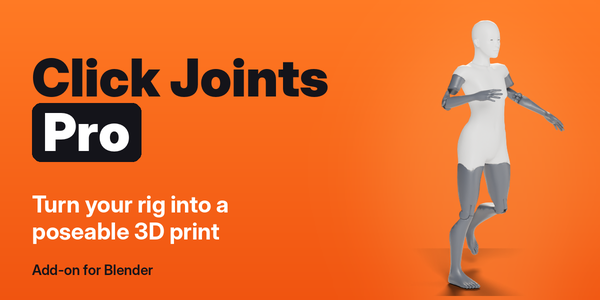
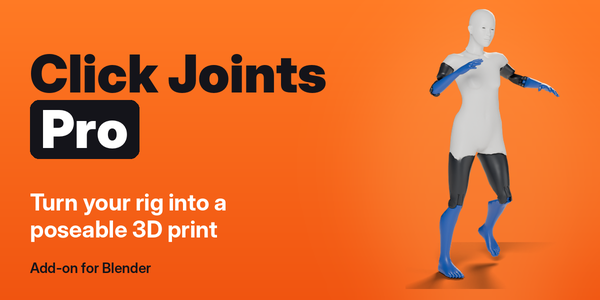
Bram: hoofdbeeld Pro versie 2 (groter, drie kleuren) plus Gumroad-maten 1005x565 en 600x600, keuring bij Daan
Claude-Session: https://claude.ai/code/session_01RMWUygMG8XgqnqxDT2udex

diff --git a/platformen/blender/superhive/hoofdbeeld/maak_hoofdbeeld.py b/platformen/blender/superhive/hoofdbeeld/maak_hoofdbeeld.py
@@ -1,5 +1,9 @@
-"""Zet de Blender-render (render_hoofdbeeld.py) op een oranje vlak met naam en één belofte, 1200 x 600.
-Ook een proefblad op 600 x 300. Letter: Inter Display (OFL), uit het systeem.
+"""Zet de Blender-render (render_hoofdbeeld.py) op een oranje vlak met naam en één belofte, in drie maten:
+- 0-hoofdbeeld-pro.png        1200 x 600  (Superhive, uitgelicht beeld)
+- 0-hoofdbeeld-pro-1005.png   1005 x 565  (Gumroad, omslag op de productpagina)
+- 0-hoofdbeeld-pro-vierkant.png 600 x 600 (Gumroad, zoeken, Discover en profiel)
+Plus proefbladen op kleine maat en naast elkaar, om in de rijtjes te keuren.
+Letter: Inter Display (OFL), uit het systeem.
     python3 maak_hoofdbeeld.py <fig.png> <uitmap>
 """
 import os
@@ -8,53 +12,85 @@ import sys
 from PIL import Image, ImageDraw, ImageFilter, ImageFont
 
 fig_pad, uitmap = sys.argv[1], sys.argv[2]
-W, H = 1200, 600
 F = "/usr/share/fonts/opentype/inter/"
 ORANJE_BOVEN, ORANJE_ONDER = (255, 122, 36), (240, 84, 16)
 INKT = (20, 20, 26)
+WIT = (255, 255, 255)
 
-# Achtergrond: oranje met een zachte verloop van boven naar onder
-bg = Image.new("RGB", (W, H))
-d = ImageDraw.Draw(bg)
-for y in range(H):
-    t = y / (H - 1)
-    d.line([(0, y), (W, y)], fill=tuple(round(a + (b - a) * t) for a, b in zip(ORANJE_BOVEN, ORANJE_ONDER)))
-# Licht vlak achter de figuur, zodat hij loskomt
-gloed = Image.new("L", (W, H), 0)
-ImageDraw.Draw(gloed).ellipse([760, 40, 1180, 640], fill=90)
-gloed = gloed.filter(ImageFilter.GaussianBlur(70))
-bg = Image.composite(Image.new("RGB", (W, H), (255, 170, 90)), bg, gloed)
+FIG = Image.open(fig_pad).convert("RGBA")
+# Bijsnijden op duidelijke dekking: de schaduwvanger laat ver weg een vage waas achter die anders meetelt.
+FIG = FIG.crop(FIG.getchannel("A").point(lambda a: 255 if a > 24 else 0).getbbox())
 
-# Figuur: doorzichtige randen eraf, schalen op 600 hoog (voeten net boven de rand)
-fig = Image.open(fig_pad).convert("RGBA")
-fig = fig.crop(fig.getbbox())
-schaal = 585 / fig.height
-fig = fig.resize((round(fig.width * schaal), round(fig.height * schaal)), Image.LANCZOS)
-x = 975 - fig.width // 2
-bg = bg.convert("RGBA")
-bg.alpha_composite(fig, (x, H - fig.height - 8))
 
-d = ImageDraw.Draw(bg)
-links = 64
-f_naam = ImageFont.truetype(F + "InterDisplay-Black.otf", 104)
-f_pro = ImageFont.truetype(F + "InterDisplay-Black.otf", 104)
-f_belofte = ImageFont.truetype(F + "InterDisplay-Bold.otf", 46)
-f_klein = ImageFont.truetype(F + "InterDisplay-SemiBold.otf", 28)
+def vlak(W, H, gloed_box):
+    bg = Image.new("RGB", (W, H))
+    d = ImageDraw.Draw(bg)
+    for y in range(H):
+        t = y / (H - 1)
+        d.line([(0, y), (W, y)], fill=tuple(round(a + (b - a) * t) for a, b in zip(ORANJE_BOVEN, ORANJE_ONDER)))
+    gloed = Image.new("L", (W, H), 0)
+    ImageDraw.Draw(gloed).ellipse(gloed_box, fill=90)
+    gloed = gloed.filter(ImageFilter.GaussianBlur(H // 9))
+    return Image.composite(Image.new("RGB", (W, H), (255, 170, 90)), bg, gloed).convert("RGBA")
 
-d.text((links, 92), "Click Joints", font=f_naam, fill=INKT)
-# "PRO" als wit blok, zodat het in de kleine weergave ook leesbaar is
-y_pro = 206
-pro_b = d.textbbox((0, 0), "Pro", font=f_pro)
-bw, bh = pro_b[2] - pro_b[0], pro_b[3] - pro_b[1]
-d.rounded_rectangle([links, y_pro, links + bw + 44, y_pro + bh + 40], radius=18, fill=INKT)
-d.text((links + 22 - pro_b[0], y_pro + 20 - pro_b[1]), "Pro", font=f_pro, fill=(255, 255, 255))
 
-d.text((links, 380), "Turn your rig into a", font=f_belofte, fill=(255, 255, 255))
-d.text((links, 434), "poseable 3D print", font=f_belofte, fill=(255, 255, 255))
-d.text((links, 522), "Add-on for Blender", font=f_klein, fill=INKT)
+def zet_figuur(bg, hoogte, midden_x, onder):
+    """Figuur op hoogte px, voeten `onder` px boven de onderrand (Daan kan 2)."""
+    s = hoogte / FIG.height
+    f = FIG.resize((round(FIG.width * s), hoogte), Image.LANCZOS)
+    bg.alpha_composite(f, (round(midden_x - f.width / 2), bg.height - hoogte - onder))
+    return f.width
+
+
+def pro_blok(d, x, y, grootte):
+    f = ImageFont.truetype(F + "InterDisplay-Black.otf", grootte)
+    b = d.textbbox((0, 0), "Pro", font=f)
+    bw, bh = b[2] - b[0], b[3] - b[1]
+    pad_x, pad_y = round(grootte * 0.21), round(grootte * 0.19)
+    d.rounded_rectangle([x, y, x + bw + 2 * pad_x, y + bh + 2 * pad_y], radius=round(grootte * 0.17), fill=INKT)
+    d.text((x + pad_x - b[0], y + pad_y - b[1]), "Pro", font=f, fill=WIT)
+
+
+def breed(W, H):
+    """Liggend (1200 x 600 en 1005 x 565): tekst links, figuur rechts zo groot als past."""
+    s = H / 600
+    bg = vlak(W, H, [W - round(470 * s), round(20 * s), W - round(10 * s), H + round(40 * s)])
+    breedte = zet_figuur(bg, round(560 * s), W - round(235 * s), round(22 * s))
+    d = ImageDraw.Draw(bg)
+    x = round(60 * s)
+    d.text((x, round(84 * s)), "Click Joints", font=ImageFont.truetype(F + "InterDisplay-Black.otf", round(104 * s)), fill=INKT)
+    pro_blok(d, x, round(200 * s), round(104 * s))
+    f_b = ImageFont.truetype(F + "InterDisplay-Bold.otf", round(46 * s))
+    d.text((x, round(376 * s)), "Turn your rig into a", font=f_b, fill=WIT)
+    d.text((x, round(430 * s)), "poseable 3D print", font=f_b, fill=WIT)
+    d.text((x, round(518 * s)), "Add-on for Blender", font=ImageFont.truetype(F + "InterDisplay-SemiBold.otf", round(28 * s)), fill=INKT)
+    return bg.convert("RGB"), breedte
+
+
+def vierkant(W=600):
+    """Vierkant (600 x 600): naam in drie regels links boven, figuur rechts over bijna de hele hoogte."""
+    H = W
+    bg = vlak(W, H, [round(W * 0.42), round(H * 0.02), W + round(W * 0.1), H + round(H * 0.08)])
+    breedte = zet_figuur(bg, round(H * 0.93), round(W * 0.71), round(H * 0.03))
+    d = ImageDraw.Draw(bg)
+    x = round(W * 0.06)
+    f_n = ImageFont.truetype(F + "InterDisplay-Black.otf", round(W * 0.135))
+    d.text((x, round(H * 0.07)), "Click", font=f_n, fill=INKT)
+    d.text((x, round(H * 0.215)), "Joints", font=f_n, fill=INKT)
+    pro_blok(d, x, round(H * 0.385), round(W * 0.135))
+    f_b = ImageFont.truetype(F + "InterDisplay-Bold.otf", round(W * 0.052))
+    for i, regel in enumerate(("Turn your rig", "into a poseable", "3D print")):
+        d.text((x, round(H * (0.66 + i * 0.068))), regel, font=f_b, fill=WIT)
+    return bg.convert("RGB"), breedte
+
 
 os.makedirs(uitmap, exist_ok=True)
-groot = bg.convert("RGB")
-groot.save(os.path.join(uitmap, "0-hoofdbeeld-pro.png"), optimize=True)
+for naam, (beeld, bw) in {
+    "0-hoofdbeeld-pro.png": breed(1200, 600),
+    "0-hoofdbeeld-pro-1005.png": breed(1005, 565),
+    "0-hoofdbeeld-pro-vierkant.png": vierkant(600),
+}.items():
+    beeld.save(os.path.join(uitmap, naam), optimize=True)
+    print(f"{naam}: {beeld.size}, figuur {bw} px breed ({100 * bw / beeld.width:.0f}% van de breedte)")
+groot = Image.open(os.path.join(uitmap, "0-hoofdbeeld-pro.png"))
 groot.resize((600, 300), Image.LANCZOS).save(os.path.join(uitmap, "0-hoofdbeeld-pro-600.png"), optimize=True)
-print("klaar", groot.size)

diff --git a/platformen/blender/superhive/hoofdbeeld/render_hoofdbeeld.py b/platformen/blender/superhive/hoofdbeeld/render_hoofdbeeld.py
@@ -1,4 +1,4 @@
-"""Hoofdbeeld Click Joints Pro voor Superhive (Bram, 21 nov 2026, opdracht hoofdchat 06:45 NL).
+"""Hoofdbeeld Click Joints Pro voor Superhive en Gumroad (Bram, 21 nov 2026, opdrachten hoofdchat 06:45 en 08:50 NL).
 
 Rendert de echte delen die Pro 1.1 maakt na "Figure from rig" op de mensfiguur van de CI-toets
 (e2e/toetsen_mens.py: MakeHuman base.obj CC0, 220 mm, 9 gewrichten, 10 delen). Niets nagetekend: het script
@@ -23,27 +23,51 @@ delen = [o for o in sc.objects if o.type == "MESH"]
 print("[hb] delen:", len(delen))
 
 
-def draai(ob, graden, doel_kant):
-    """Draai deel B om zijn scharnieras; kies het teken waarbij het verste punt naar doel_kant gaat."""
-    p = Vector(ob["cj_scharnier_punt"])
-    a = Vector(ob["cj_scharnier_as"]).normalized()
-    ver = max((ob.matrix_world @ v.co for v in ob.data.vertices), key=lambda q: (q - p).length)
+def draai_om(obs, p, a, graden, doel_kant, wie):
+    """Draai hele delen om punt p en as a; kies het teken waarbij het verste punt naar doel_kant gaat."""
+    p, a = Vector(p), Vector(a).normalized()
+    ver = max((obs[0].matrix_world @ v.co for v in obs[0].data.vertices), key=lambda q: (q - p).length)
     beste = None
     for teken in (1, -1):
         m = Matrix.Translation(p) @ Matrix.Rotation(math.radians(teken * graden), 4, a) @ Matrix.Translation(-p)
         score = ((m @ ver) - ver).dot(Vector(doel_kant))
         if beste is None or score > beste[0]:
             beste = (score, m)
-    ob.matrix_world = beste[1] @ ob.matrix_world
-    print(f"[hb] {ob['cj_naam']}: {graden} graden (bereik {ob['cj_bereik_graden']})")
+    for ob in obs:
+        ob.matrix_world = beste[1] @ ob.matrix_world
+    print(f"[hb] {wie}: {graden} graden")
 
 
-naam = {o.get("cj_naam"): o for o in delen if o.get("cj_soort") == "SCHARNIER"}
-# Linkerknie 55 graden naar achter (voet naar +Y), rechterelleboog 70 graden naar voor en omhoog.
-draai(naam["Left knee"], 55, (0, 1, 0.4))
-draai(naam["Right elbow"], 70, (0, -1, 1))
+def deel(n):
+    return next(o for o in delen if o.get("cj_naam") == n and o.get("cj_deel") == "B")
 
-# Kleuren als twee rollen filament: romp en hoofd licht, ledematen donker, zodat elke naad te zien is.
+
+def scharnier(n, graden, doel_kant, ook=()):
+    """Scharnier: om de eigen as uit de add-on (cj_scharnier_punt, cj_scharnier_as), binnen cj_bereik_graden."""
+    ob = deel(n)
+    assert graden <= ob["cj_bereik_graden"], n
+    draai_om([ob, *ook], ob["cj_scharnier_punt"], ob["cj_scharnier_as"], graden, doel_kant, f"{n} (bereik {ob['cj_bereik_graden']})")
+
+
+def kogel(n, graden, as_, doel_kant, ook=()):
+    """Kogel: om het kogelcentrum (cj_centrum), binnen cj_grens_graden."""
+    ob = deel(n)
+    assert graden <= ob["cj_grens_graden"], n
+    draai_om([ob, *ook], ob["cj_centrum"], as_, graden, doel_kant, f"{n} (grens {ob['cj_grens_graden']})")
+
+
+# Houding (21 nov, tweede versie): eerst de ellebogen en knieën, dan de kogels die het hele lid meenemen.
+# Alles binnen het bereik dat Pro meldt: ellebogen 0-140, knieën 0-120, schouders en nek 20, heupen 25.
+scharnier("Right elbow", 80, (0, -1, 1))
+scharnier("Left elbow", 40, (0, -1, 1))
+scharnier("Left knee", 60, (0, 1, 0.3))
+kogel("Left shoulder", 18, (0, 1, 0), (1, 0, 1), ook=[deel("Left elbow")])
+kogel("Right shoulder", 18, (1, 0, 0), (0, -1, 0.3), ook=[deel("Right elbow")])
+kogel("Left hip", 20, (1, 0, 0), (0, -1, 0), ook=[deel("Left knee")])
+kogel("Neck", 10, (0, 1, 0), (1, 0, 0))
+
+# Kleuren als drie rollen filament: romp en hoofd licht, bovenarmen en dijen antraciet, onderarmen en
+# onderbenen blauw. Zo heeft elk deel een andere kleur dan zijn buur en zie je alle 10 delen ook klein.
 def mat(n, kleur, rough=0.42):
     m = bpy.data.materials.new(n)
     m.use_nodes = True
@@ -53,12 +77,18 @@ def mat(n, kleur, rough=0.42):
     return m
 
 licht = mat("licht", (0.86, 0.85, 0.82, 1))
-donker = mat("donker", (0.06, 0.065, 0.08, 1))
+donker = mat("donker", (0.012, 0.014, 0.018, 1))
+blauw = mat("blauw", (0.004, 0.05, 0.32, 1))
 for o in delen:
     o.data.materials.clear()
-    kogel_romp = o.get("cj_deel") == "A"  # het A-deel dat overblijft is romp met hoofd
-    hoofd = o.get("cj_naam") == "Neck" and o.get("cj_deel") == "B"
-    o.data.materials.append(licht if (kogel_romp or hoofd) else donker)
+    n, d_ = o.get("cj_naam"), o.get("cj_deel")
+    if d_ == "A" or n == "Neck":
+        m = licht
+    elif n in ("Left shoulder", "Right shoulder", "Left hip", "Right hip"):
+        m = donker
+    else:
+        m = blauw
+    o.data.materials.append(m)
     for f in o.data.polygons:
         f.use_smooth = True
 
@@ -104,6 +134,7 @@ sc.render.film_transparent = True
 sc.render.resolution_x, sc.render.resolution_y = 900, 1200
 sc.render.resolution_percentage = 100
 sc.view_settings.view_transform = "AgX"
+sc.view_settings.look = "AgX - Punchy"
 sc.render.filepath = uit
 bpy.ops.render.render(write_still=True)
 print("[hb] KLAAR", uit)

diff --git a/platformen/blender/superhive/hoofdbeeld/README.md b/platformen/blender/superhive/hoofdbeeld/README.md
@@ -1,15 +1,25 @@
-# Hoofdbeeld Click Joints Pro voor Superhive (Bram, 21 nov 2026)
+# Hoofdbeeld Click Joints Pro voor Superhive en Gumroad (Bram, 21 nov 2026)
 
 Opdracht hoofdchat 21 nov 06:45 NL: nieuw uitgelicht beeld, €0, echte Blender-render, 1200 x 600, naam groot en één belofte, duidelijke kleur.
 
-- `0-hoofdbeeld-pro.png`: 1200 x 600, het beeld voor Superhive.
-- `0-hoofdbeeld-pro-600.png`: zelfde op 600 x 300, om de rijtjesweergave te keuren.
+Versie 2 (opdracht hoofdchat 08:50 NL, Daan kan 1 en 2): figuur groter, elk deel een andere kleur dan zijn buur, voeten van de onderrand, en twee Gumroad-maten erbij.
+
+- `0-hoofdbeeld-pro.png`: 1200 x 600, Superhive (uitgelicht beeld).
+- `0-hoofdbeeld-pro-1005.png`: 1005 x 565, Gumroad omslag op de productpagina.
+- `0-hoofdbeeld-pro-vierkant.png`: 600 x 600, Gumroad zoeken, Discover en profiel.
+- `0-hoofdbeeld-pro-600.png`: de 1200 x 600 op 600 x 300, om de rijtjesweergave te keuren.
 - `render-figuur.png`: de kale Cycles-render (doorzichtig), 900 x 1200.
+
+Wat er anders is dan versie 1 (GEZIEN, eigen meting met `maak_hoofdbeeld.py`):
+- Figuur 555 px hoog in plaats van ±520 (de vage waas van de schaduwvanger telde eerst mee bij het bijsnijden). Breedte 26% van 1200, 29% van 1005, 51% van 600. De ±45% van Daan haal je bij een staande figuur op 2:1 alleen door hem af te snijden; ik koos de hele figuur met armen en been wijder uit elkaar.
+- Drie kleuren als drie rollen filament: romp en hoofd licht, bovenarmen en dijen antraciet, onderarmen en onderbenen blauw. Elk deel verschilt van zijn buur, dus alle 10 delen zijn te tellen.
+- Houding: beide ellebogen (80° en 40°), linkerknie 60°, beide schouders 18°, linkerheup 20°, nek 10°. Alles binnen wat Pro meldt (scharnier 140/120, kogel 20/25); het script stopt als een draai buiten het bereik valt.
+- Voeten 17 tot 22 px boven de onderrand.
 
 ## Hoe gemaakt (alles na te doen)
 1. Figuur: de CI-toets `producten/blender-gewrichten/e2e/toetsen_mens.py` met Pro 1.1.0 (`PRO_VERSIE=1.1.0 bash e2e/maak_zip.sh betaald`) op MakeHuman base.obj (CC0), Blender 5.3.0. Uitslag lokaal: 9 gewrichten, 10 delen, alle delen gesloten en één stuk, "KLAAR 0 FOUT" (GEZIEN, 21 nov).
-2. `render_hoofdbeeld.py`: draait de linkerknie 55° (bereik 120°) en de rechterelleboog 70° (bereik 140°) om hun eigen scharnieras uit de add-on, twee kleuren (romp licht, ledematen donker), Cycles 160 samples, schaduw op een vloer.
-3. `maak_hoofdbeeld.py`: oranje vlak, "Click Joints" + blok "Pro", belofte "Turn your rig into a poseable 3D print", regel "Add-on for Blender". Letter Inter Display (OFL).
+2. `render_hoofdbeeld.py` (op het .blend dat `e2e/proef_mens.py` bewaart, met `CJ_HOOGTE=220`): draait scharnieren om hun eigen as en kogels om hun centrum uit de add-on, drie kleuren, Cycles 160 samples, AgX Punchy, schaduw op een vloer. Camera `HB_CAM=-450,-750`.
+3. `maak_hoofdbeeld.py`: oranje vlak, "Click Joints" + blok "Pro", belofte "Turn your rig into a poseable 3D print", regel "Add-on for Blender" (niet in het vierkant, daar is geen plek). Maakt alle maten. Letter Inter Display (OFL).
 
 Niets nagetekend: de vorm van elk deel en de naden zijn wat Pro maakt. De houding is een echte draai binnen het gemeten bereik.
 

diff --git a/berichten/daan.md b/berichten/daan.md
@@ -728,3 +728,7 @@ Tak `claude/steam-hol-niveau-gat`: eerst de valregel, dan de niveauregel (`faam_
 ## 21 nov 2026 ±06:50 UTC, van Bram: keuring nieuw hoofdbeeld Pro voor Superhive
 Opdracht hoofdchat 06:45 NL. Wil je keuren met skill `keuren`: `platformen/blender/superhive/hoofdbeeld/0-hoofdbeeld-pro.png` (1200 x 600) en `0-hoofdbeeld-pro-600.png` (600 x 300). Echte Cycles-render van de 10 delen die Pro 1.1 maakt na "Figure from rig" (knie 55° en elleboog 70° gebogen, binnen het bereik), oranje vlak, "Click Joints Pro" en één belofte "Turn your rig into a poseable 3D print". Hoe gemaakt: `README.md` in die map. De hoofdchat vraagt het ook te bekijken op 600 x 300 naast Cleave in het rijtje van Superhive. Groen: zet het in mijn berichten, dan meld ik het de hoofdchat (of meld jij het direct onderaan `berichten/hoofdchat.md`, dat scheelt een ronde).
 Webpagina's lees je met `curl` in Bash, nooit met WebFetch. WebFetch vraagt Thijs om toestemming en dan staat alles stil.
+
+## 21 nov 2026 ±08:35 UTC, van Bram: keuring hoofdbeeld Pro versie 2, drie maten
+Opdracht hoofdchat 08:50 NL. Je kan 1 en 2 verwerkt: figuur groter (555 px hoog), drie filamentkleuren (romp en hoofd licht, bovenarmen en dijen antraciet, onderarmen en onderbenen blauw), wijdere houding, voeten 17 tot 22 px van de rand. Nieuw: `0-hoofdbeeld-pro-1005.png` (Gumroad omslag) en `0-hoofdbeeld-pro-vierkant.png` (600 x 600, Gumroad zoeken en Discover); `0-hoofdbeeld-pro.png` (1200 x 600) is ook vernieuwd. Alles in `platformen/blender/superhive/hoofdbeeld/`, uitleg in de README daar. Eerlijk: 45% breed haal ik niet zonder de figuur af te snijden (nu 26% van 1200, 51% van het vierkant); zeg het als je liever afsnijden ziet. De hoofdchat vraagt alle maten klein te keuren naast CatPin en Cleave. Groen: graag direct onderaan `berichten/hoofdchat.md` melden, dat scheelt een ronde.
+Webpagina's lees je met `curl` in Bash, nooit met WebFetch. WebFetch vraagt Thijs om toestemming en dan staat alles stil.

diff --git a/platformen/blender/logboek.md b/platformen/blender/logboek.md
@@ -698,3 +698,6 @@ Alleen aanvullen, nooit iets weghalen.
 
 ## 21 nov 2026 ±04:10 NL, Bram
 - Niets zinvols te doen: geen nieuw bericht sinds 20 nov 14:42 NL. Gratis 0.1.2 wacht op de uitgave (±23 nov), Pro 1.1.0 is live, Hats-speeltest ligt bij Olaf.
+
+## 21 nov 2026 ±08:35 UTC (Bram)
+- Hoofdbeeld Pro versie 2 (opdracht hoofdchat 08:50 NL): figuur groter, drie kleuren zodat de 10 delen te tellen zijn, ook 1005 x 565 en 600 x 600 voor Gumroad. Echte Cycles-render, Blender 5.3.0 lokaal, Pro 1.1.0 op de mensfiguur: 9 gewrichten, 10 delen, alle gesloten en één stuk (GEZIEN). Keuring gevraagd aan Daan. Volgende run: zijn uitslag nakijken.
